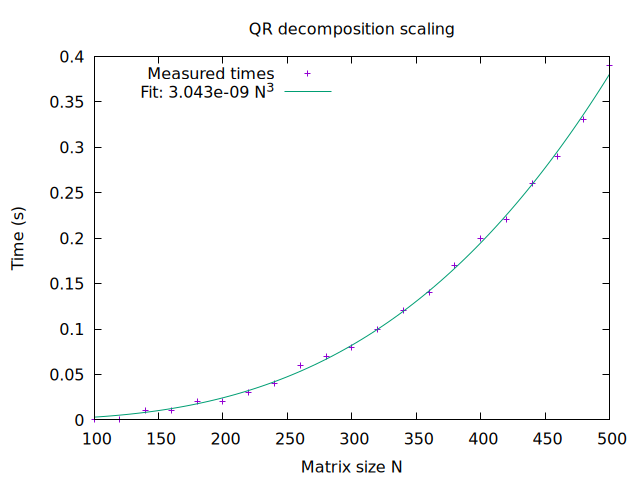
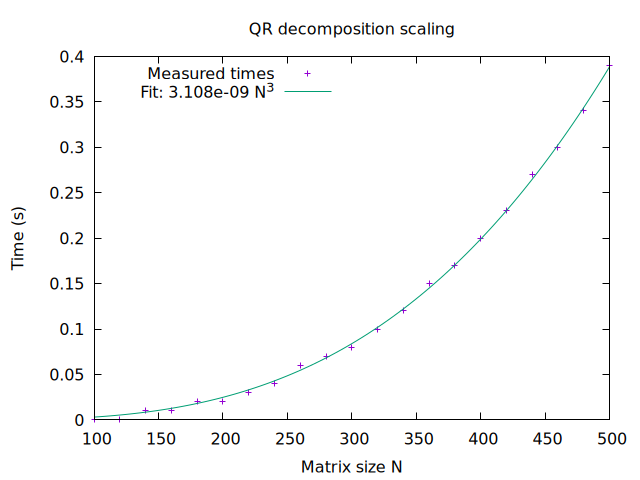
Add adjustments to homework 09_lineq

diff --git a/homeworks/09_lineq/main.cc b/homeworks/09_lineq/main.cc
@@ -169,7 +169,7 @@ int main(int argc, char* argv[]) {
               << "\n";
 
     // ============================================================================================
-    // Plotting (Task C) [see plot.py]
+    // Plotting (Task C) [see plot.gpi]
     // ============================================================================================
 
     section("TEST 5: PLOTTING AND FITTING [Task C]");
